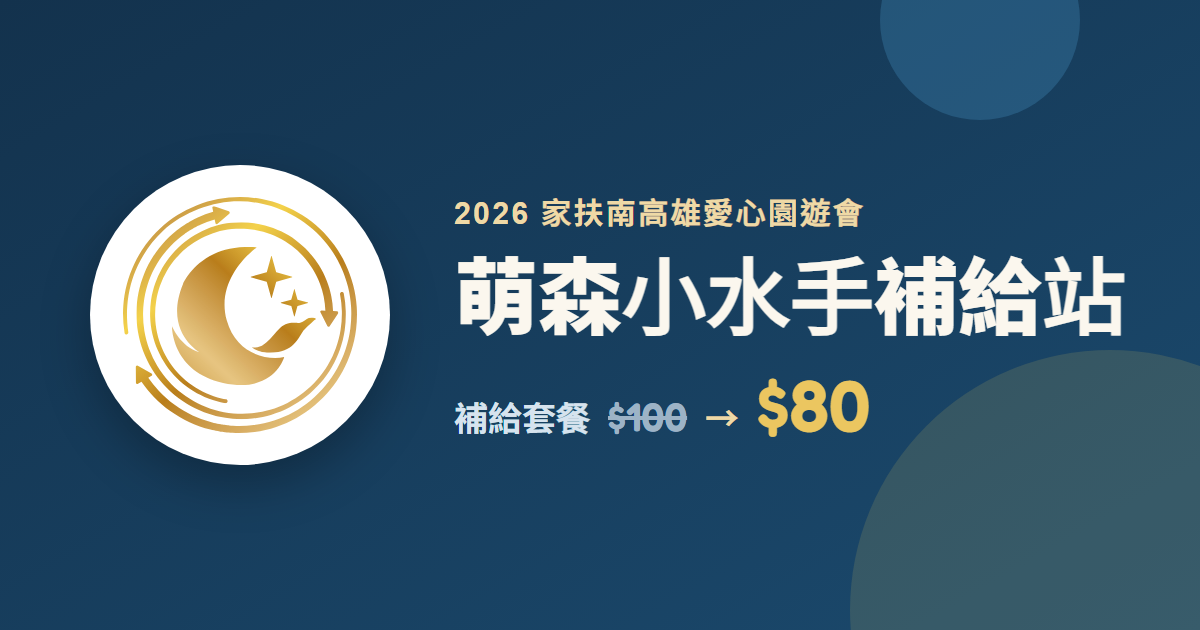
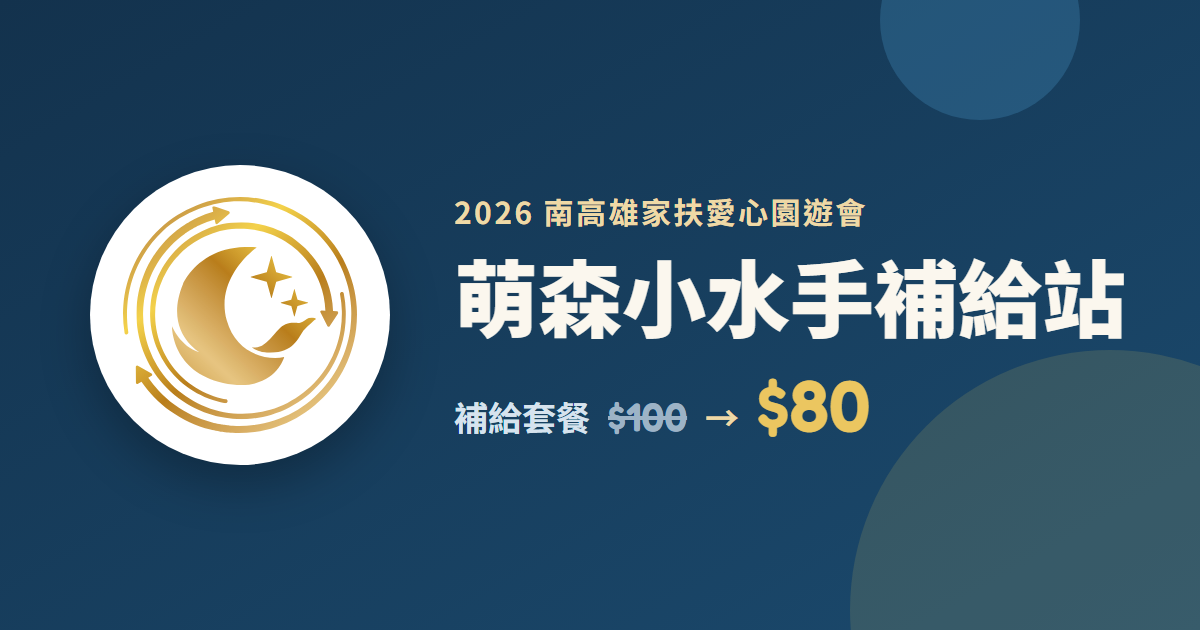
活動名稱更正為南高雄家扶愛心園遊會（網頁與分享圖）

Changed region(s): [[0.37, 0.3921, 0.9558, 0.5429], [0.37, 0.3016, 0.74, 0.3619], [0.4625, 0.6333, 0.4933, 0.6937]]

diff --git a/index.html b/index.html
@@ -7,11 +7,11 @@
 <meta name="robots" content="noindex">
 <title>萌森小水手補給站</title>
 <link rel="icon" href="logo.svg" type="image/svg+xml">
-<meta name="description" content="2026 家扶南高雄愛心園遊會｜補給套餐 $100 → $80，再送航海羅盤一次">
+<meta name="description" content="2026 南高雄家扶愛心園遊會｜補給套餐 $100 → $80，再送航海羅盤一次">
 <meta property="og:type" content="website">
 <meta property="og:site_name" content="萌森旅遊平台">
 <meta property="og:title" content="萌森小水手補給站">
-<meta property="og:description" content="2026 家扶南高雄愛心園遊會｜補給套餐 $100 → $80，再送航海羅盤一次">
+<meta property="og:description" content="2026 南高雄家扶愛心園遊會｜補給套餐 $100 → $80，再送航海羅盤一次">
 <meta property="og:url" content="https://avoir2025-cpu.github.io/mengsen-survey/">
 <meta property="og:image" content="https://avoir2025-cpu.github.io/mengsen-survey/og.png">
 <meta property="og:image:width" content="1200">
@@ -204,7 +204,7 @@ h2.title{font-size:26px;line-height:1.3;font-weight:900;color:var(--navy);margin
   <section id="s0" hidden>
     <div class="hero">
       <div class="badge"><img src="logo.svg" alt="萌森" onerror="this.parentNode.remove()"></div>
-      <div class="eyebrow">2026 家扶南高雄愛心園遊會</div>
+      <div class="eyebrow">2026 南高雄家扶愛心園遊會</div>
       <h1>萌森小水手補給站</h1>
       <div class="perks">
         <div class="perk perk-main"><i>🧇</i><div><b>補給套餐</b><span class="deal"><s class="num">$100</s><span class="arrow">→</span><span class="num">$80</span></span></div></div>

diff --git a/README.md b/README.md
@@ -1,6 +1,6 @@
 # 萌森小水手補給站｜互動問卷網頁 v1
 
-2026/11/15 家扶南高雄愛心園遊會用。客人在 LINE 裡開啟，填 8 題旅遊問卷，看到夢想旅程試算，拿到兌換卡（$80＋羅盤 1 次）。
+2026/11/15 南高雄家扶愛心園遊會用。客人在 LINE 裡開啟，填 8 題旅遊問卷，看到夢想旅程試算，拿到兌換卡（$80＋羅盤 1 次）。
 
 ## 檔案
 
